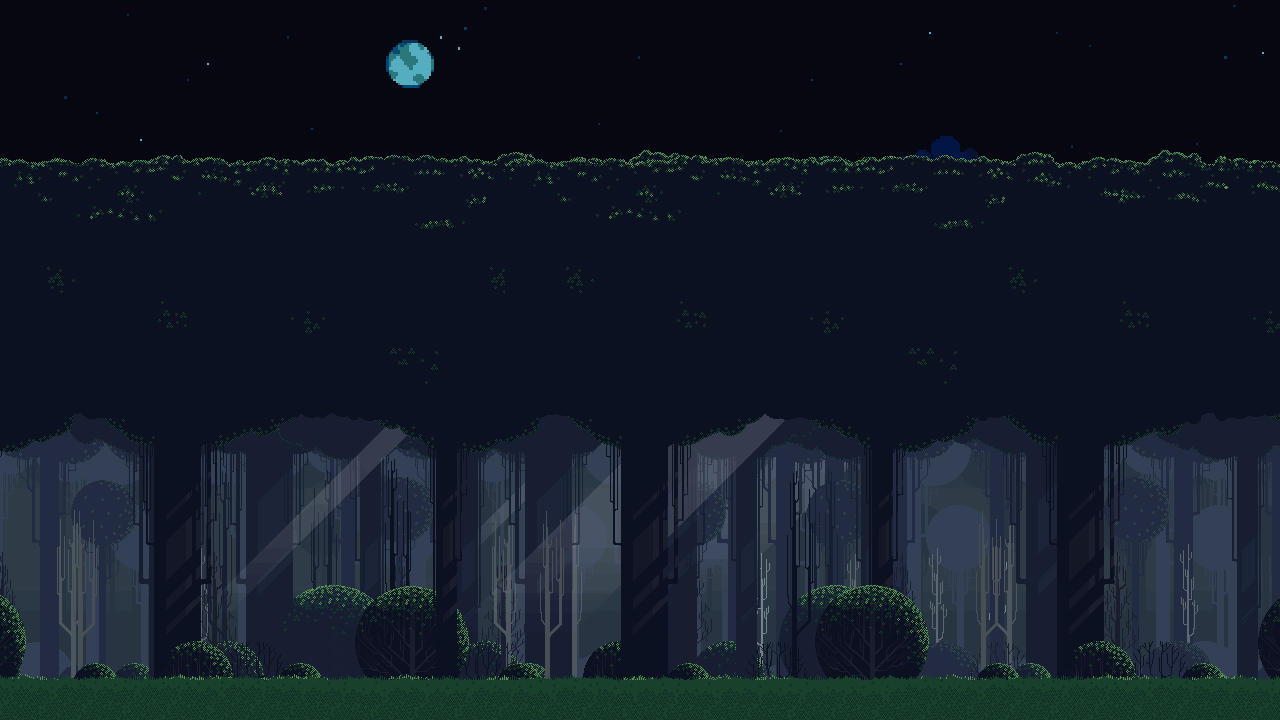
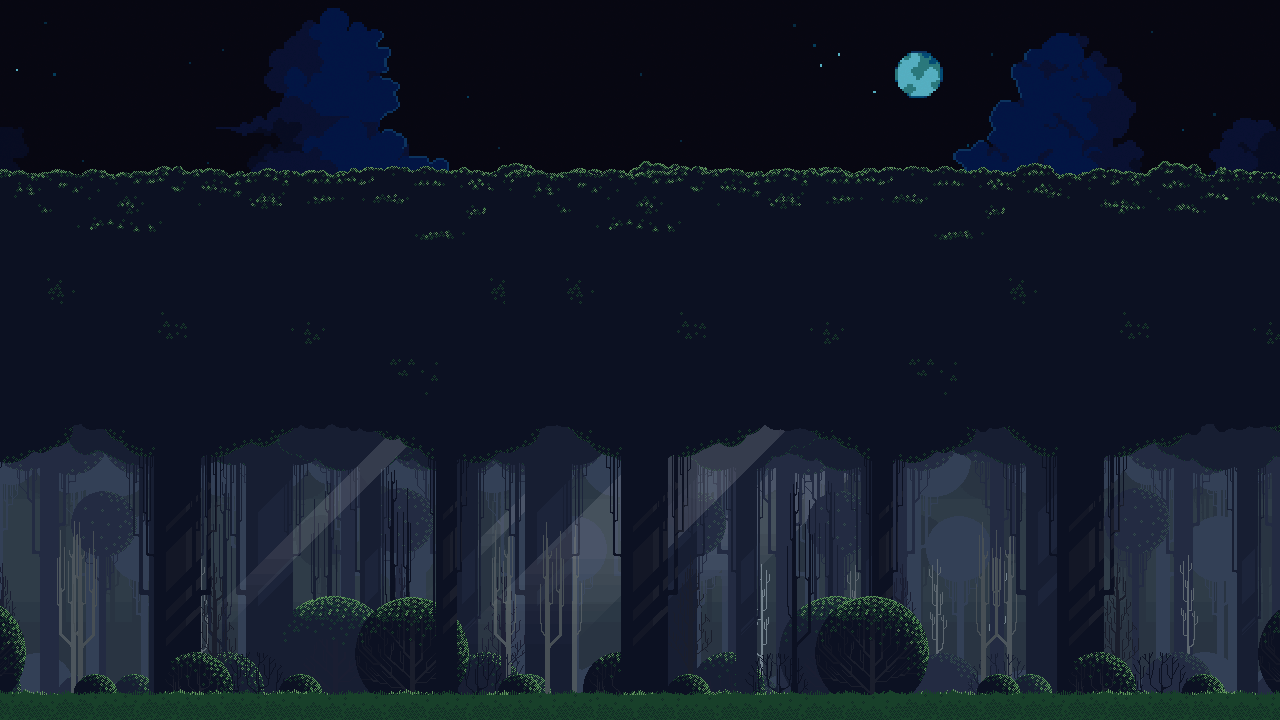
Finish map UI

diff --git a/src/game/map/Map.java b/src/game/map/Map.java
@@ -6,7 +6,6 @@ import java.util.Random;
 import game.Game;
 import javafx.geometry.Pos;
 import javafx.scene.layout.GridPane;
-import javafx.scene.layout.StackPane;
 import logic.GameLogic;
 
 public class Map extends GridPane {
@@ -17,8 +16,7 @@ public class Map extends GridPane {
 
 	public Map(int width, int height) {
 		super();
-		StackPane.setAlignment(this, Pos.TOP_CENTER);
-		setAlignment(Pos.TOP_CENTER);
+		setAlignment(Pos.CENTER);
 		setPickOnBounds(false);
 		this.width = width;
 		this.height = height;
@@ -46,35 +44,66 @@ public class Map extends GridPane {
 
 	public void initialize() {
 		placeRandomMarker(MapMarker.PLAYER);
-		while (marks.size() < 10 + GameLogic.getInstance().getCurrentFloor()) { // create 3 monster diffrence pos
+		while (marks.size() < 2 + GameLogic.getInstance().getCurrentFloor()) { // create 1 monster diffrence pos
 			placeRandomMarker(MapMarker.MONSTER);
 		}
-		while (marks.size() < 11 + GameLogic.getInstance().getCurrentFloor()) { // create 1 door diffrence pos
-			placeRandomMarker(MapMarker.DOOR);
+		buildPath(marks.get(0), marks.get(1));
+		while (marks.size() < 5 + GameLogic.getInstance().getCurrentFloor()) { // create 3 monster diffrence pos
+			if (placeRandomMarker(MapMarker.MONSTER)) findRoute();
 		}
-		findRoute();
+		while (marks.size() < 6 + GameLogic.getInstance().getCurrentFloor()) { // create 1 door diffrence pos
+			if (placeRandomMarker(MapMarker.DOOR)) findRoute();
+		}
+		while (marks.size() < 7 + GameLogic.getInstance().getCurrentFloor()) { // create 1 door diffrence pos
+			if (placeRandomMarker(MapMarker.DOCTOR)) findRoute();
+		}
 		render();
 	}
 
-	private void placeRandomMarker(MapMarker marker) {
+	private boolean placeRandomMarker(MapMarker marker) {
 		int x = random(width), y = random(height);
 		if (squares[x][y].getMarker() == null) {
 			squares[x][y].setMarker(marker);
 			marks.add(new MarkPosition(x, y));
+			return true;
 		}
+		
+		return false;
 	}
 
 	private void findRoute() {
 		// add each node route to node at the index infront randomly.
-		buildPath(marks.get(0), marks.get(1));
-		for (int i = 2; i < marks.size(); i++) {
-			int r = random(i - 1) + 1;
-			buildPath(marks.get(i), marks.get(r));
-		}
+		int r = random(2) + 2;
+		buildPath(marks.getLast(), marks.get(marks.size()-r));
+	}
+	
+	private boolean findAdjacent(MarkPosition prev, MarkPosition pos) {
+		int x = pos.getX(), y = pos.getY();
+		
+		if (x+1<width)
+			if (squares[x+1][y].getMarker() != null)
+				if (!(x+1==prev.getX() && y==prev.getY())) return true;
+		if (x-1>=0)
+			if (squares[x-1][y].getMarker() != null )
+				if (!(x-1==prev.getX() && y==prev.getY())) return true;
+		if (y+1<height)
+			if (squares[x][y+1].getMarker() != null)
+				if (!(x==prev.getX() && y+1==prev.getY())) return true;
+		if (y-1>=0)
+			if (squares[x][y-1].getMarker() != null)
+				if (!(x==prev.getX() && y-1==prev.getY())) return true;
+		
+		return false;
 	}
 
 	private void buildPath(MarkPosition start, MarkPosition end) {
+		MarkPosition prev = new MarkPosition(start.getX(), start.getY());
+		
 		while (start.getX() != end.getX() || start.getY() != end.getY()) {
+			if (findAdjacent(prev, start)) break;
+			prev.setX(start.getX());
+			prev.setY(start.getY());
+			
 			if (start.getX() == end.getX()) {
 				start.setY(start.getY() + (start.getY() < end.getY() ? 1 : -1));
 			} else if (start.getY() == end.getY()) {

diff --git a/src/game/GameTop.java b/src/game/GameTop.java
@@ -4,16 +4,20 @@ import game.backpack.Backpack;
 import game.item.Item;
 import game.map.Map;
 import javafx.geometry.Pos;
+import javafx.scene.image.Image;
+import javafx.scene.image.ImageView;
 import javafx.scene.layout.Border;
 import javafx.scene.layout.BorderStroke;
 import javafx.scene.layout.BorderStrokeStyle;
 import javafx.scene.layout.BorderWidths;
 import javafx.scene.layout.CornerRadii;
 import javafx.scene.layout.HBox;
+import javafx.scene.layout.StackPane;
 import javafx.scene.paint.Color;
 
 public class GameTop extends HBox {
 	private static GameTop instance;
+	private static StackPane map;
 	private boolean isBackpack;
 
 	public GameTop() {
@@ -23,6 +27,17 @@ public class GameTop extends HBox {
 		setBorder(new Border(
 				new BorderStroke(Color.BLACK, BorderStrokeStyle.SOLID, CornerRadii.EMPTY, BorderWidths.DEFAULT)));
 		getChildren().setAll(Backpack.getInstance());
+		
+		ImageView mapBackground = new ImageView(new Image(ClassLoader.getSystemResource("picture/map.png").toString()));
+		mapBackground.setPreserveRatio(true);
+		mapBackground.setFitWidth(400);
+		getMap().setAlignment(Pos.TOP_CENTER);
+		StackPane.setAlignment(map, Pos.TOP_CENTER);
+		map.setMaxHeight(400);
+		map.setMaxWidth(400);
+		map.setBorder(new Border(
+				new BorderStroke(Color.BLUEVIOLET, BorderStrokeStyle.SOLID, CornerRadii.EMPTY, BorderWidths.DEFAULT)));
+		map.getChildren().setAll(mapBackground, Map.getInstance());
 	}
 
 	public void useBackpack() {
@@ -31,6 +46,8 @@ public class GameTop extends HBox {
 		for (Item item : Game.getInstance().getItemsInGame()) {
 			item.setVisible(true);
 		}
+		
+		Game.getInstance().getChildren().remove(map);
 	}
 
 	public void useMap() {
@@ -38,7 +55,11 @@ public class GameTop extends HBox {
 		for (Item item : Game.getInstance().getItemsInGame()) {
 			item.setVisible(false);
 		}
-		Map.getInstance().show();
+		
+		if (!Game.getInstance().getChildren().contains(map)) {
+			Game.getInstance().getChildren().add(map);
+		}
+//		Map.getInstance().show();
 	}
 
 	public boolean isBackpack() {
@@ -50,5 +71,10 @@ public class GameTop extends HBox {
 			instance = new GameTop();
 		}
 		return instance;
+	}
+
+	public static StackPane getMap() {
+		if (map == null) map = new StackPane();
+		return map;
 	}
 }

diff --git a/src/game/map/MarkerLoader.java b/src/game/map/MarkerLoader.java
@@ -10,7 +10,8 @@ public class MarkerLoader {
 		markerMap = new HashMap<MapMarker, Resource>();
 		markerMap.put(MapMarker.DOOR, new Resource("icons/door.png"));
 		markerMap.put(MapMarker.MONSTER, new Resource("icons/normalSkull.png"));
-		markerMap.put(MapMarker.PLAYER, new Resource("Items/apple.png"));
+		markerMap.put(MapMarker.PLAYER, new Resource("picture/knightIcon.png"));
+		markerMap.put(MapMarker.DOCTOR, new Resource("icons/doctor.png"));
 	}
 
 	public static Image getImage(MapMarker marker) {

diff --git a/src/scene/CharacterScene.java b/src/scene/CharacterScene.java
@@ -9,6 +9,7 @@ import javafx.scene.image.ImageView;
 import javafx.scene.layout.HBox;
 import javafx.scene.layout.StackPane;
 import javafx.scene.layout.VBox;
+import javafx.scene.paint.Color;
 import javafx.scene.text.Font;
 import javafx.scene.text.Text;
 import sound.Sfx;
@@ -75,7 +76,9 @@ public class CharacterScene {
 		
 		Text name = new Text("Knight");
 		name.setFont(Font.loadFont(ClassLoader.getSystemResource("ModernDOS8x16.ttf").toString(), 60));
+		name.setFill(Color.WHITE);
 		Text detail = new Text("A knight of unwavering honor, felt the weight of\nthe world on his shoulders. His duty drove him\ninto the heart of the darkness.");
+		detail.setFill(Color.WHITE);
 		detail.setFont(Font.loadFont(ClassLoader.getSystemResource("ModernDOS8x16.ttf").toString(), 20));
 		
 		animation.getChildren().addAll(idelPreview, attackPreview, runPreview);

diff --git a/src/game/map/MapMarker.java b/src/game/map/MapMarker.java
@@ -1,5 +1,5 @@
 package game.map;
 
 public enum MapMarker {
-	NEXT_FLOOR, MYSTERY, DOOR, MONSTER, PATH, PLAYER
+	NEXT_FLOOR, MYSTERY, DOOR, MONSTER, PATH, PLAYER, DOCTOR
 }